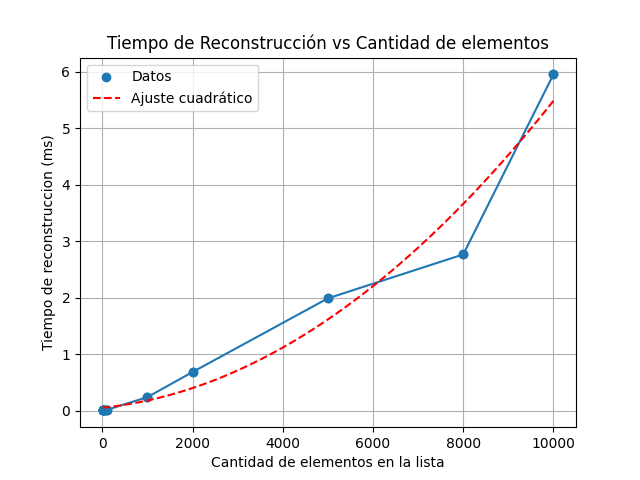
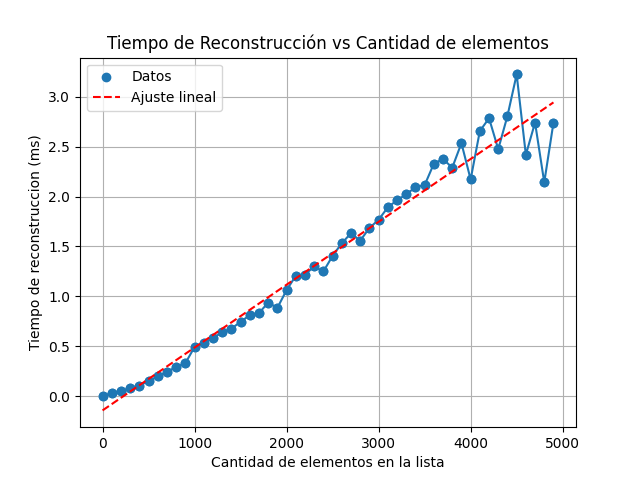
[ADDs & REFACTORs] - Se evaluan más elementos para el grafico de la reconstrucción para confirmar la complejidad lineal del algoritmo. - Modularización de funciones. Creamos un archivo dedicado a la lectura de archivos, dejando el archivo "auxiliares.py" dedicado a funciones que tengan que ver con e

diff --git a/TP2/src/auxiliares.py b/TP2/src/auxiliares.py
@@ -1,22 +1,11 @@
 import os
 import numpy as np
+from main import jugar
+from main import reconstruir_monedas_tomadas_por_sophia
+import time
 
-def leer_numeros_desde_txt(nombre_archivo):
-    """
-    Lee un archivo de texto y devuelve una lista con los números que contiene.
-    Si el archivo tiene comentarios, los ignora.
-    """
-    if not os.path.isabs(nombre_archivo):
-        nombre_archivo = 'data/' + nombre_archivo
+FACTOR_TIEMPO = 1000 # milisegundos
 
-    with open(nombre_archivo, 'r') as archivo:
-        lineas = archivo.readlines()
-        if lineas[0].startswith('#'):
-            lineas = lineas[1:]
-        contenido = ''.join(lineas).strip() 
-        numeros_str = contenido.split(';')  
-        numeros = [int(num) for num in numeros_str]  
-    return numeros
 
 def modelo_lineal(x, m, b):
     return m * x + b
@@ -24,8 +13,69 @@ def modelo_lineal(x, m, b):
 def modelo_cuadratico(x, a, b, c):
     return a * x**2 + b * x + c
 
+
 def generar_monedas(tamaño, variabilidad):
     """
     Genera un arreglo de monedas con un tamaño dado y un nivel de variabilidad
     """
     return np.random.randint(1, int(100 * variabilidad), tamaño)
+
+
+def contar_tiempos_reconstruccion(tamanios):
+    """ 
+    Dada una lista de listas de monedas, devuelve una lista con los tiempos de 
+    reconstrucción de cada una de las listas. Además, devuelve dos listas con 
+    los puntos de Sofia y Mateo respectivamente.
+    """
+    tiempos = []
+    
+    for tamanio in tamanios:
+        coins = generar_monedas(tamanio, 1)
+        dp = jugar(coins)
+        inicio = time.perf_counter()
+        reconstruir_monedas_tomadas_por_sophia(coins, dp)
+        fin = time.perf_counter()
+        tiempos.append( (fin - inicio) * FACTOR_TIEMPO) # milisegundos
+
+    return tiempos
+
+
+def contar_tiempos_juegos(tamanios):
+    """ 
+    Dada una lista de listas de monedas, devuelve una lista con los tiempos de 
+    reconstrucción de cada una de las listas. Además, devuelve dos listas con 
+    los puntos de Sofia y Mateo respectivamente.
+    """
+    tiempos = []
+    
+    for tamanio in tamanios:
+        coins = generar_monedas(tamanio, 1)
+        inicio = time.perf_counter()
+        jugar(coins)
+        fin = time.perf_counter()
+        tiempos.append( (fin - inicio) * FACTOR_TIEMPO) # milisegundos
+
+    return tiempos
+
+
+def jugar_muchos_arreglos(listas):
+    """
+    Dada una lista de listas de monedas, devuelve una lista con los tiempos de ejec
+    de cada una de las listas. Además, devuelve dos listas con los puntos de Sofia
+    y Mateo respectivamente.
+    """
+    tiempos = []
+    puntos_sofia = []
+    puntos_mateo = []
+
+    for i in listas:
+        inicio = time.perf_counter()
+        dp = jugar(i)
+        suma_sofia = dp[0][-1]
+        suma_mateo = sum(i) - suma_sofia
+        puntos_sofia.append(suma_sofia)
+        puntos_mateo.append(suma_mateo)
+        fin = time.perf_counter()
+        tiempos.append( (fin - inicio) * FACTOR_TIEMPO) # milisegundos
+
+    return tiempos, puntos_sofia, puntos_mateo

diff --git a/TP2/grafico.py b/TP2/grafico.py
@@ -1,60 +1,11 @@
 import sys
-import os
-import time
-from main import jugar
 from src.auxiliares import *
+from src.lectura_archivos import monedas_desde_archivos
 from src.jugar_n_juegos import jugar_n_juegos
 from src.cant_vs_tiempo import mostrar_cantidad_vs_tiempo
 from src.cant_vs_puntos import mostrar_cantidad_vs_puntos
 from src.variabilidad import mostrar_tiempo_vs_variabilidad
 from src.reconstruccion_vs_tiempo import reconstruccion_vs_tiempo
-
-CARPETA = 'data'
-
-def monedas_desde_archivos():
-    """
-    Lee los archivos de la carpeta data y devuelve una lista con los tamaños
-    de las listas de monedas y otra lista con las listas de monedas.
-    """
-    listas = []
-    tamaños = []
-    carpeta_data = CARPETA
-    archivos_txt = [f for f in os.listdir(carpeta_data) if f.endswith('.txt')]
-
-    for archivo in archivos_txt:
-        ruta_archivo = os.path.join(carpeta_data, archivo) 
-        lista = leer_numeros_desde_txt(archivo)
-        listas.append(lista)
-
-    listas.sort(key=len)
-    for lista in listas:
-        tamaños.append(len(lista))
-
-    return tamaños, listas
-
-def jugar_muchos_arreglos(listas):
-    """
-    Dada una lista de listas de monedas, devuelve una lista con los tiempos de ejec
-    de cada una de las listas. Además, devuelve dos listas con los puntos de Sofia
-    y Mateo respectivamente.
-    """
-    tiempos = []
-    puntos_sofia = []
-    puntos_mateo = []
-
-    for i in listas:
-        inicio = time.perf_counter()
-        dp = jugar(i)
-        #CAMBIAR ESTO
-        suma_sofia = dp[0][-1]
-        suma_mateo = sum(i) - suma_sofia
-        puntos_sofia.append(suma_sofia)
-        puntos_mateo.append(suma_mateo)
-        fin = time.perf_counter()
-        tiempos.append( (fin - inicio) * 1000) # milisegundos
-
-    return tiempos, puntos_sofia, puntos_mateo
-
 
 def ejecutar_graficos():
     """
@@ -64,9 +15,8 @@ def ejecutar_graficos():
     if len(sys.argv) > 1:
         grafico = sys.argv[2]
         if grafico == "tiempo_vs_cantidad":
-            tamaños, listas = monedas_desde_archivos()
-            tiempos, _, _ = jugar_muchos_arreglos(listas)
-            mostrar_cantidad_vs_tiempo(tamaños, tiempos)
+            #tamaños, listas = monedas_desde_archivos()
+            mostrar_cantidad_vs_tiempo()
         elif grafico == "puntos_vs_cantidad":
             tamaños, listas = monedas_desde_archivos()
             _, puntos_sofia, puntos_mateo = jugar_muchos_arreglos(listas)
@@ -80,7 +30,7 @@ def ejecutar_graficos():
         elif grafico == "tiempo_vs_variabilidad":
             mostrar_tiempo_vs_variabilidad()
         elif grafico == "reconstruccion_vs_tiempo":
-            #tamaños, listas = monedas_desde_archivos()            
+            #tamaños, listas = monedas_desde_archivos()
             reconstruccion_vs_tiempo()
         else:
             print("Opción no válida.")

diff --git a/TP2/src/reconstruccion_vs_tiempo.py b/TP2/src/reconstruccion_vs_tiempo.py
@@ -1,33 +1,33 @@
-import time
 import matplotlib.pyplot as plt
 import numpy as np
 from scipy.optimize import curve_fit
 from src.auxiliares import *
-from main import jugar
-from main import reconstruir_monedas_tomadas_por_sophia
+
+MIN_JUEGOS = 0
+MAX_JUEGOS = 500
+SALTO = 50
 
 def reconstruccion_vs_tiempo():
     """
     Muestra un gráfico con los tiempos de reconstruccion en función 
     de la cantidad de elementos en las listas que genera.
     """
-    _tamanios = range(100, 5000, 100) 
-    _tiempos = reconstruir_muchos_arreglos(_tamanios)
+    _tamanios = range(MIN_JUEGOS, MAX_JUEGOS, SALTO) 
+    _tiempos = contar_tiempos_reconstruccion(_tamanios)
     tamanios = np.array(_tamanios)
-    tiempos = np.array(_tiempos)   
+    tiempos = np.array(_tiempos)
 
-    params, cov = curve_fit(modelo_cuadratico, tamanios, tiempos)
+    params, cov = curve_fit(modelo_lineal, tamanios, tiempos)
     
     plt.scatter(tamanios, tiempos, label='Datos')
     tamanios_fit = np.linspace(min(tamanios), max(tamanios), 100)
-    tiempos_fit_cuad = modelo_cuadratico(tamanios_fit, *params)
-    #tiempos_fit_lin = modelo_lineal(tamanios_fit, *params)
+    #tiempos_fit_cuad = modelo_cuadratico(tamanios_fit, *params)
+    tiempos_fit_lin = modelo_lineal(tamanios_fit, *params)
 
     plt.title("Tiempo de Reconstrucción vs Cantidad de elementos")
     plt.plot(tamanios, tiempos, marker='o')
-    plt.plot(tamanios_fit, tiempos_fit_cuad, label='Ajuste cuadrático', color='red', linestyle='--')
+    plt.plot(tamanios_fit, tiempos_fit_lin, label='Ajuste lineal', color='red', linestyle='--')
     #plt.plot(tamanios_fit, tiempos_fit_lin, label='Ajuste lineal', color='green', linestyle='--')
-
 
     plt.xlabel("Cantidad de elementos en la lista")
     plt.ylabel("Tiempo de reconstruccion (ms)")
@@ -35,20 +35,3 @@ def reconstruccion_vs_tiempo():
     plt.grid(True)
     plt.show()
 
-def reconstruir_muchos_arreglos(tamanios):
-    """ 
-    Dada una lista de listas de monedas, devuelve una lista con los tiempos de 
-    reconstrucción de cada una de las listas. Además, devuelve dos listas con 
-    los puntos de Sofia y Mateo respectivamente.
-    """
-    tiempos = []
-    
-    for tamanio in tamanios:
-        coins = generar_monedas(tamanio, 1)
-        dp = jugar(coins)
-        inicio = time.perf_counter()
-        reconstruir_monedas_tomadas_por_sophia(coins, dp)
-        fin = time.perf_counter()
-        tiempos.append( (fin - inicio) * 1000) # milisegundos
-
-    return tiempos

diff --git a/TP2/src/lectura_archivos.py b/TP2/src/lectura_archivos.py
@@ -1,0 +1,43 @@
+import os
+
+CARPETA = 'data'
+
+def leer_numeros_desde_txt(nombre_archivo):
+    """
+    Lee un archivo de texto y devuelve una lista con los números que contiene.
+    Si el archivo tiene comentarios, los ignora.
+    """
+    if not os.path.isabs(nombre_archivo):
+        nombre_archivo = 'data/' + nombre_archivo
+
+    with open(nombre_archivo, 'r') as archivo:
+        lineas = archivo.readlines()
+        if lineas[0].startswith('#'):
+            lineas = lineas[1:]
+        contenido = ''.join(lineas).strip() 
+        numeros_str = contenido.split(';')  
+        numeros = [int(num) for num in numeros_str]  
+    return numeros
+
+
+def monedas_desde_archivos():
+    """
+    Lee los archivos de la carpeta data y devuelve una lista con los tamaños
+    de las listas de monedas y otra lista con las listas de monedas.
+    """
+    listas = []
+    tamaños = []
+    carpeta_data = CARPETA
+    archivos_txt = [f for f in os.listdir(carpeta_data) if f.endswith('.txt')]
+
+    for archivo in archivos_txt:
+        ruta_archivo = os.path.join(carpeta_data, archivo) 
+        lista = leer_numeros_desde_txt(archivo)
+        listas.append(lista)
+
+    listas.sort(key=len)
+    for lista in listas:
+        tamaños.append(len(lista))
+
+    return tamaños, listas
+

diff --git a/TP2/src/cant_vs_tiempo.py b/TP2/src/cant_vs_tiempo.py
@@ -3,13 +3,19 @@ import numpy as np
 from scipy.optimize import curve_fit
 from src.auxiliares import *
 
-def mostrar_cantidad_vs_tiempo(tamaños, tiempos):
+MIN_JUEGOS = 0
+MAX_JUEGOS = 100
+SALTO = 10
+
+def mostrar_cantidad_vs_tiempo():
     """
     Muestra un gráfico con los tiempos de ejecución en función 
     de la cantidad de elementos en la lista.
     """
-    tamanios = np.array(tamaños)
-    tiempos = np.array(tiempos)   
+    _tamanios = range(MIN_JUEGOS, MAX_JUEGOS, SALTO) 
+    _tiempos = contar_tiempos_juegos(_tamanios)
+    tamanios = np.array(_tamanios)
+    tiempos = np.array(_tiempos)
 
     params, cov = curve_fit(modelo_cuadratico, tamanios, tiempos)
     
@@ -18,7 +24,7 @@ def mostrar_cantidad_vs_tiempo(tamaños, tiempos):
     tiempos_fit = modelo_cuadratico(tamanios_fit, *params)
 
     plt.title("Tiempo de ejecución vs Cantidad de elementos")
-    plt.plot(tamaños, tiempos, marker='o')
+    plt.plot(tamanios, tiempos, marker='o')
     plt.plot(tamanios_fit, tiempos_fit, label='Ajuste cuadrático', color='red', linestyle='--')
 
     plt.xlabel("Cantidad de elementos en la lista")

diff --git a/TP2/main.py b/TP2/main.py
@@ -1,4 +1,4 @@
-from src.auxiliares import leer_numeros_desde_txt
+from src.lectura_archivos import leer_numeros_desde_txt
 import os
 import sys
 
@@ -115,6 +115,7 @@ def rec_to_str(rec, coins):
         turno += 1
     return rec_str, puntos_sophia, puntos_mateo
 
+
 def cargar_set_datos(ruta_archivo_abs):
     try:
         if os.path.isabs(ruta_archivo_abs):
@@ -131,6 +132,7 @@ def cargar_set_datos(ruta_archivo_abs):
             print("La ruta no es absoluta.")
     except Exception as e:
         print("Error al cargar el archivo: ", e)
+
 
 if __name__ == "__main__":
     if len(sys.argv) != 2:

diff --git a/TP2/README.md b/TP2/README.md
@@ -158,5 +158,5 @@ Ingrese una opción (1-5): 1
 
 #### Notas adicionales
 
-- Asegúrese de tener todos los archivos de datos necesarios en la carpeta `data/`, ya que los gráficos dependen de ellos.
+- Los graficos se generan con set de datos randoms, puede modificar los límites de los respectivos valores en las constantes de cada archivo dedicado a un gráfico.
 - En caso de que no se generen los gráficos o haya algún error en la ejecución, consulte los permisos de los archivos y asegúrese de tener instaladas las dependencias correctamente y estar en el directorio adecuado.
